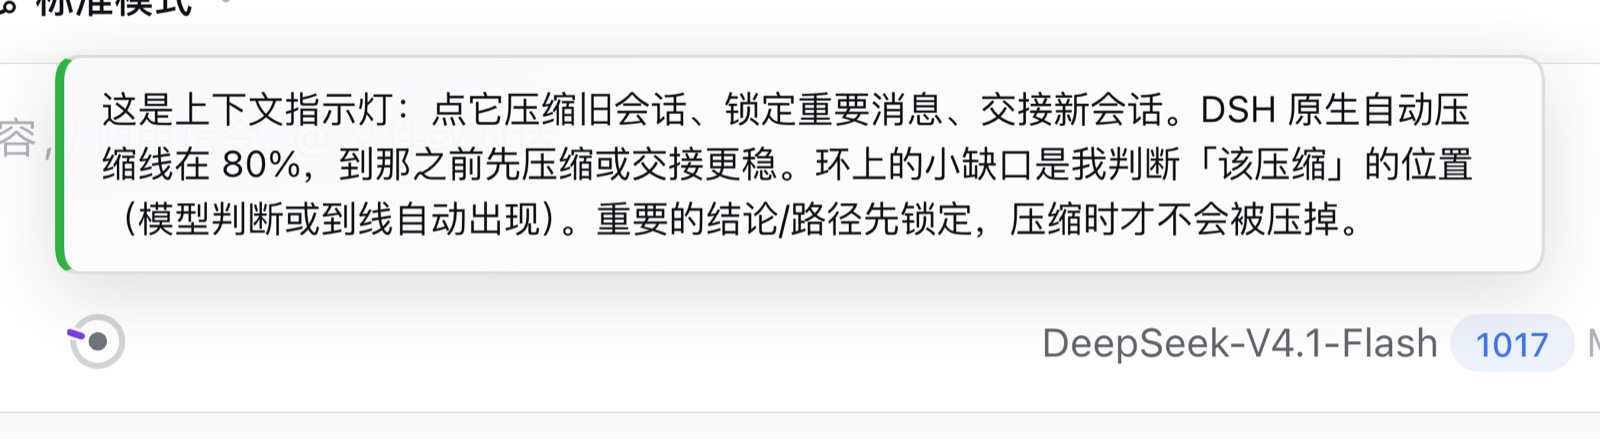
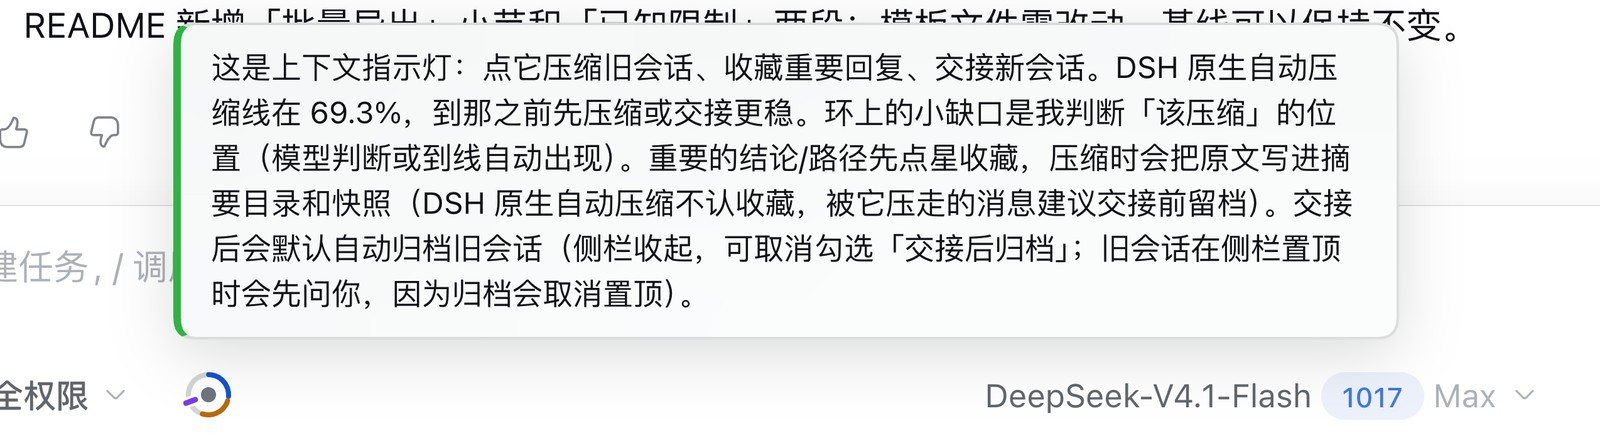
docs(readme): 按 0.5.5 重写全篇并换 8 张新截图
- 内容对齐 0.5.5：收藏/推荐收藏成为独立核心功能，pin 退役口径、/favorite 命令、推荐收藏设置项
- 缩略图全部重拍：指示环悬停卡、菜单、压缩确认卡（含收藏区）、原生自动压缩告警、设置页、图例教学卡、首次引导，新增收藏星标图
- 三条线数字对齐真实界面：1.05M 窗口、原生自动压缩线 69.3%、交接线硬上限 64%
- screenshots.json 补 favorite-star.jpg

diff --git a/README.md b/README.md
@@ -9,7 +9,7 @@
 [![npm](https://img.shields.io/npm/v/dsh-compact-relay?label=npm&color=cb3837)](https://www.npmjs.com/package/dsh-compact-relay)
 [![DSH](https://img.shields.io/badge/DSH-0.2.x-4d6bfe)](https://www.deepseek.com/harness/)
 [![license](https://img.shields.io/badge/license-MIT-yellow)](LICENSE)
-[![version](https://img.shields.io/badge/version-0.5.0-blue)](CHANGELOG.md)
+[![version](https://img.shields.io/badge/version-0.5.5-blue)](CHANGELOG.md)
 [![XERJ Corpus Hub contributor](https://hub.xerj.org/contributors/cfanzx/badge.svg)](https://hub.xerj.org/contributors/cfanzx)
 
 收录于 [XERJ Corpus Hub](https://hub.xerj.org/corpus/cfanzx--dsh-compact-relay) · 钉住 commit `435601b` · MIT · 带署名
@@ -27,33 +27,44 @@
 - **琥珀色（带缺口）**：达到建议压缩点（由缺口标识），点击可预览压缩估算数据并决定是否执行。
 - **红色**：达到交接阈值，建议生成九段式交接文档并切换至新会话。
 
+容量管理之外，插件还负责两件事：到线前用交接单换一个新会话接着聊；把值得回看的回复收藏起来，压缩时连同原文落档。
+
 插件直接挂载于现有输入框旁，默认参数已针对 DSH 0.2.x 完成适配，无需改变既有操作流程。
 
 ## 核心功能
 
 ### 1. 状态可视化监控
 
-指示环按压缩评估逻辑分段显色，只表达容量：模型或阈值判定的建议压缩点，以及 DSH 原生自动压缩线（按宿主实际 token 预算算出的触发点：deepseek-flash 约 67.8%，配置阈值默认 80%）。0.5.1 起环上不再画锁定消息的位置（位置标记归 0.6 时间线），锁定状态以悬停卡/菜单的条数显示。当上下文占用越过原生自动压缩线时，整环呈红色闪烁告警。交接提醒线晚于当前模型的实际触发线（−5pp）时，环上交接刻度旁会出现红色小警示，悬停卡与 `/handoff` 菜单也会同步标出「交接线已晚」。
+指示环按压缩评估逻辑分段显色，只表达容量：模型或阈值判定的建议压缩点，以及 DSH 原生自动压缩线（按宿主实际 token 预算算出的触发点：deepseek-flash 约 69.3%（窗口 1.05M），配置阈值默认 80%）。0.5.1 起环上不再画消息位置，位置标记归 0.6 时间线。当上下文占用越过原生自动压缩线时，整环呈红色闪烁告警。交接提醒线晚于当前模型的实际触发线（−5pp）时，环上交接刻度旁会出现红色小警示，悬停卡与 `/handoff` 菜单也会同步标出「交接线已晚」。
 
 上下文进入「可压缩区间」（最小压缩线到压缩线之间）时，插件会在系统提示里主动告诉模型当前容量与区间，模型据此判断「刚完成一个自然节点」时是否记录压缩节点（0.3.4 起；此前模型看不到容量，判断条件不可执行）。
 
-鼠标悬停可查看详细数值：已用容量、累计压缩次数、当前操作建议、压缩判断点、原生自动压缩线及已锁定消息数量。
+鼠标悬停可查看详细数值：已用容量、累计压缩次数、当前操作建议、压缩判断点及原生自动压缩线。
 
 ### 2. 预览与确认压缩
 
-执行 `/bc` 命令（或通过指示环菜单触发）可预先查看待压缩范围、消息条数及预计释放的容量空间，需经用户二次确认后方才执行。确认前可随时取消，未提交前不会修改任何历史记录；已锁定的消息在压缩时自动跳过。
+执行 `/bc` 命令（或通过指示环菜单触发）可预先查看待压缩范围、消息条数及预计释放的容量空间，需经用户二次确认后方才执行。确认前可随时取消，未提交前不会修改任何历史记录。
+
+0.5.3 起确认卡会列出「本段 N 条 · 已收藏 M 条 · 建议补 K 条」，展开本段已收藏条目与「建议先收藏」的候选（每条可一键收藏）——这是压缩前最后一次补救机会。已收藏的消息在压缩时把原文写进摘要的「收藏（本段）」目录，并在 `~/.dsh/dcr-favorites/snapshots/` 留快照。
 
 ![压缩预览与确认](assets/compact-preview.jpg)
 
-### 3. 结构化会话交接
+### 3. 收藏与推荐收藏
+
+**收藏 = 给「这条以后可能想回看原话」留个预约**，不是把正文存下来：
+
+- **两步走**：点星（或命令）只写一行标记（项目级 JSONL，按会话链根存）；**原文只在压缩时落档**——压缩后摘要里出现「收藏（本段）」目录，原文另存 `~/.dsh/dcr-favorites/snapshots/` 快照。所以「标了不压缩」= 只留一个序号，这是设计而非 bug。
+- **入口**：助手消息底部星标；`/favorite mark [seq]` 可标任意已完成回复（不带 seq 标最后一条）。**不需要会话开着**：归档/关闭的会话也能按 seq 标记（0.5.3 起标记层不依赖活 agent）。
+- **星标常亮（0.5.5）**：已收藏的星标常亮——动作行收起时只显示这一颗星，鼠标移上去才恢复整行按钮；选择器不依赖宿主哈希类名，触屏与不支持 CSS `:has()` 的旧浏览器回退原行为。
+- **推荐收藏（半自动）**：每条助手回复落地后，小模型异步打分（0-100）；够档位的星标会**金色微亮**并带「推荐」提示。三档：宽松 60 / 标准 75 / 严格 85（默认标准），另有必亮词与屏蔽词。**只点亮、绝不自动收藏**——确认仍要你点星或 `/favorite mark`。设置页可调档位/词表，并支持「试算」（粘一段原文按当前设置跑一次真实打分，只读）。
+- **压缩后再补标**：若原文还在会话日志里，标记时当场写快照；读不到会明确报错，不假装成功。（从归档会话档案里读原文归 0.6。）
+- **压缩后的整理（0.5.4）**：建议候选只保留用户/助手消息，工具输出不再占名额；无正文条目的标题显示为「第 seq 条」；压缩完成后自动清空本会话的推荐建议，被压走的消息不再残留。
+
+![收藏星标](assets/favorite-star.jpg)
+
+### 4. 结构化会话交接
 
 执行 `/handoff` 命令可生成包含九个标准部分的交接文档（总体目标、约束条件、已完成项、当前进度、涉及文件、关键决策、已知问题、未完成项、下一步计划），并在当前工作区自动创建新会话、注入该文档并完成切换，原会话完整保留。
-
-### 4. 关键消息锁定
-
-执行 `/pin` 命令可标记压缩时必须保留的消息。锁定状态与条数显示在悬停卡（「已锁定 N 条」）和菜单（锁定行 /「已锁 N 条 · 失效 M」）里；0.5.1 起环上不再画 pin 位置块（位置标记归 0.6 时间线）。
-
-![指示环菜单](assets/menu.jpg)
 
 ### 5. 接力条：交接链与双向跳转
 
@@ -61,29 +72,11 @@
 
 - **完整交接链**：点「完整交接链」才**按需**读取（不展开不发请求），一次列出整条链「历史 N：<原名>」（默认服务端只读持久化日志，祖先会话没打开也能读；老宿主回落逐级查询）。每行都能打开那一跳的交接单、点整行跳到那个会话（已归档的会先自动恢复）。最多回看 8 层，链路异常成环会自动停；某一层实在读不到时保留已读行 +「无法读取更早的链路 / 上一层会话未打开」，老宿主还会给「打开并继续」（打开那一层后自动续读），不影响菜单其他入口。
 - **父 → 子**：把接力棒交出去之后，父会话侧的接力条变成「已交接给新会话」，「去新会话」一键切回这次交接出来的新会话（新会话若被归档过，也会先恢复再切）。
-- **pin 失效标注**：被压缩（尤其 DSH 原生自动压缩）带走的锁定消息不再凭空消失——悬停卡与菜单标「已失效 N 条（随原生压缩移除）」；原生压缩**即将**覆盖锁定消息时会提前提示「先交接（/handoff）或解锁」。
 - **置顶确认**：交接后归档旧会话会取消它的侧栏置顶（宿主行为）。旧会话置顶时，交接预览先问一次：点「交接并归档（取消置顶）」才归档，点「只交接，保留置顶」则旧会话和置顶都留着。
 - **归档开关**：交接预览里可以勾掉「交接后自动归档旧会话」（默认开）；首次引导里也写了这个选项。
 - **强制归档（0.5.2）**：旧会话还有任务在跑时，自动归档会「保留可见、不停止任务」。确实要清理时，接力条菜单里有「强制归档旧会话（会停止后台任务）」：点开还会再确认一次，确认面板明确写「会停止旧会话上正在跑的任务（turn / 子代理 / 后台任务 / 定时任务），中断后无法恢复」；旧会话在侧栏置顶时会补「归档会同时取消置顶（宿主行为）」。**默认不会自动做这一步**，只有你在确认面板里点「强制归档（停止任务）」才会执行。
 
 > 老链（0.5.0 之前生成的会话）没有交接单路径记录，界面显示「暂无交接单」而不是猜一个——它会先向父会话只读回查一次。
-
-### 6. 收藏与推荐收藏（0.5.3）
-
-**收藏 = 给「这条以后可能想回看原话」留个预约**，不是把正文存下来：
-
-- **两步走**：点星（或命令）只写一行标记（项目级 JSONL，按会话链根存）；**原文只在压缩时落档**——
-  压缩后摘要里出现「收藏（本段）」目录，原文另存 `~/.dsh/dcr-favorites/snapshots/` 快照。
-  所以「标了不压缩」= 只留一个序号，这是设计而非 bug。
-- **入口**：助手消息底部星标；`/favorite mark [seq]` 可标任意已完成回复（不带 seq 标最后一条）。
-  **不需要会话开着**：归档/关闭的会话也能按 seq 标记（0.5.3 起标记层不依赖活 agent）。
-- **推荐收藏（半自动）**：每条助手回复落地后，小模型异步打分（0-100）；够档位的星标会**金色微亮**
-  提示「值得收藏」。三档：宽松 60 / 标准 75 / 严格 85（默认标准），另有必亮词与屏蔽词。
-  **只点亮、绝不自动收藏**——确认仍要你点星或 `/favorite mark`。设置页可调档位/词表，并支持「试算」。
-- **压缩预览卡补收藏**：点「压缩旧会话」后的确认卡会显示「本段 N 条 · 已收藏 M 条 · 建议补 K 条」，
-  列出本段已收藏条目（含你的发言）和"建议先收藏"的关键候选，每条可一键收藏——这是压缩前最后的补救机会。
-- **压缩后再补标**：若原文还在会话日志里，标记时当场写快照；读不到会明确报错，不假装成功。
-  （从归档会话档案里读原文归 0.6。）
 
 ## 指示环图例说明
 
@@ -94,22 +87,22 @@
 | 琥珀色弧 | 已越过压缩判断点，适合执行压缩 |
 | 红色弧 | 已越过交接阈值，建议切换新会话 |
 | 环形缺口 | 建议压缩点（系统在可压缩区间主动提示模型判断；模型记录或到达压缩线时自动出现） |
-| 紫色刻度 | DSH 原生自动压缩线：按 `min(窗口 × thresholdRatio, 窗口 − 输出预留 − headroomTokens)` 算出的**实际触发点**（deepseek-flash 约 67.8%；`thresholdRatio` 配置默认 80%，只是理论上限） |
+| 紫色刻度 | DSH 原生自动压缩线：按 `min(窗口 × thresholdRatio, 窗口 − 输出预留 − headroomTokens)` 算出的**实际触发点**（deepseek-flash 约 69.3%；`thresholdRatio` 配置默认 80%，只是理论上限） |
 | 整环红色闪烁 | 已越过原生自动压缩线，即将触发 DSH 原生自动压缩 |
 
-> 0.5.1 起环只表达容量，不再标注 pin 位置；「已锁定 N 条 / 已失效 M 条」在悬停卡与菜单查看（位置标记归 0.6 时间线）。
+> 0.5.1 起环只表达容量，不再标注消息位置（位置标记归 0.6 时间线）；已收藏的消息以动作行里的金色星标标示。
 
 ![越过原生自动压缩线](assets/native-alert.jpg)
 
-## 三条线（deepseek-flash 1M 默认）
+## 三条线（deepseek-flash 1.05M 默认）
 
 | 线 | 默认值 | 含义 | 怎么调 |
 | --- | --- | --- | --- |
 | 压缩提醒线 | 40% | 到线变琥珀色，菜单建议「压缩旧会话」 | 设置 → 压缩接力 |
-| 交接提醒线 | 60% | 到线内圆亮红点，菜单建议「交接新会话」 | 设置 → 压缩接力；**硬上限 = 实际触发线 −5pp**（deepseek-flash 下 62%） |
-| 原生自动压缩线 | 67.8% | DSH 按 token 预算真正触发自动压缩的点（配置阈值 80% 只是理论上限，deepseek-flash 的输出预留 + DSH 余量把它压到 67.8%） | profile 里 `compaction-basic` 的 `thresholdRatio`（默认 80%） |
+| 交接提醒线 | 60% | 到线内圆亮红点，菜单建议「交接新会话」 | 设置 → 压缩接力；**硬上限 = 实际触发线 −5pp**（deepseek-flash 下 64%） |
+| 原生自动压缩线 | 69.3% | DSH 按 token 预算真正触发自动压缩的点（配置阈值 80% 只是理论上限，deepseek-flash 的输出预留 + DSH 余量把它压到 69.3%） | profile 里 `compaction-basic` 的 `thresholdRatio`（默认 80%） |
 
-**交接线为什么要留 5 个百分点**：交接提醒必须早于 DSH 自己压历史，才有时间生成交接单、开新会话。所以 0.4.2 起交接线有硬上限 **实际触发线 −5pp**（取整到整数百分位；deepseek-flash 1M 窗口下是 62%）：超过时**拒绝保存并提示目标值**，不静默夹紧；已存的高值不会被偷偷改写，但设置页会常驻告警，并可点「按实际线重算」一键改成上限。实际触发线算不出（无会话 / 宿主没给）时不告警、不阻断，保存校验退回配置阈值防呆（与 0.4.1 一致）。
+**交接线为什么要留 5 个百分点**：交接提醒必须早于 DSH 自己压历史，才有时间生成交接单、开新会话。所以 0.4.2 起交接线有硬上限 **实际触发线 −5pp**（取整到整数百分位；deepseek-flash 1.05M 窗口下是 64%）：超过时**拒绝保存并提示目标值**，不静默夹紧；已存的高值不会被偷偷改写，但设置页会常驻告警，并可点「按实际线重算」一键改成上限。实际触发线算不出（无会话 / 宿主没给）时不告警、不阻断，保存校验退回配置阈值防呆（与 0.4.1 一致）。
 
 ## 安装
 
@@ -132,10 +125,10 @@ dsh plugin --profile desktop add github:cfanzx/dsh-compact-relay
 配置入口位于 **设置 → 压缩接力**（DSH 0.2.1+ 位于账号菜单内）：
 
 - **压缩提示**：配置最小压缩线、压缩提醒线与交接提醒线，控制告警触发时机。
+- **推荐收藏**：推荐开关、三档阈值（宽松 60 / 标准 75 / 严格 85）、必亮词、屏蔽词，以及「试算」（粘一段原文，按当前设置跑一次真实打分，只读）。
 - **压缩行为**：配置摘要保留份数上限、近期原文保留 Token 数及交接文档存储目录。
 - **DSH 原生自动压缩**：读取宿主阈值并换算实际触发线，支持开启或关闭 DSH 原生自动压缩（修改 profile 配置前自动生成备份，重启后生效）。
-- **推荐收藏**：推荐开关、三档阈值（宽松 60 / 标准 75 / 严格 85）、必亮词、屏蔽词，以及「试算」（粘一段原文，按当前设置跑一次真实打分，只读）。
-- **颜色与外观**：配置五项基准色（含收藏星标点亮色），系统将根据浅色/深色主题自动派生适配色阶。
+- **颜色与外观**：配置各项基准色（含收藏星标点亮色），系统将根据浅色/深色主题自动派生适配色阶。
 - **帮助**：提供指示环图例、使用说明、问题反馈入口、「再看一次初次引导」按钮，以及「诊断信息」（只在本机生成、可预览/复制，见下节）。
 - **关于与危险操作**：查看版本号、配置文件路径，支持恢复出厂默认设置。
 
@@ -175,9 +168,10 @@ dsh plugin --profile desktop add github:cfanzx/dsh-compact-relay
 | `/handoff` | 生成九段式交接文档并创建、切换至新会话 |
 | `/favorite` / `/favorite list` | 当前会话收藏目录（编号 + 角色 + 标题） |
 | `/favorite mark [seq]` | 收藏一条（不带 seq 标最后一条已完成回复；不需要会话开着） |
+| `/favorite last` | 收藏我刚发出的那条消息 |
 | `/favorite <序号> [read]` | 报体积，或输出收藏原文 |
 | `/favorite rm <序号>` / `/favorite suggest` | 取消收藏 / 列出推荐收藏建议 |
-| `/pin` / `/unpin` | 锁定或解锁指定消息，锁定后跳过压缩（0.5.3 起 pin 退役为收藏） |
+| `/pin` / `/unpin` | 0.5.3 起退役为收藏：旧命令保留兼容，锁定不再影响压缩选段与范围 |
 | `/bctest` | 小范围空跑测试（仅供开发调试） |
 
 ## 功能边界与限制
@@ -185,13 +179,15 @@ dsh plugin --profile desktop add github:cfanzx/dsh-compact-relay
 - **不替代 DSH 原生压缩机制**：原生压缩仍由 DSH 宿主控制；本插件仅负责读取阈值、显示告警并在设置页提供开关选项。
 - **不篡改提示词与模型回复**：插件仅在用户明确确认压缩或执行交接时替换对应历史记录。
 - **摘要质量取决于底层模型**：摘要生成采用九段式结构化模板并包含格式校验与单次重试机制，但最终产出质量仍受限于所选模型的能力。
-- **纯本地存储**：插件状态保存于 `~/.dsh/compact-relay.json`，交接文档保存于 `~/.dsh/handoffs/`，无任何外部数据同步。
-- **依附桌面输入框**：环形指示器、`/bc`、`/handoff` 依附 DSH 的输入框与斜杠命令；headless 会话或 QQ / 微信等桥接链路不会加载它们，在这些链路里发 `/bc` 会被当成普通消息——这是桥接链路的能力边界，不是插件故障。
+- **纯本地存储**：插件状态保存于 `~/.dsh/compact-relay.json`，交接文档保存于 `~/.dsh/handoffs/`，收藏标记与快照保存于 `~/.dsh/dcr-favorites/`，无任何外部数据同步。
+- **收藏只在本插件主动压缩时落档**：DSH 原生自动压缩不认收藏，被它压走的消息不会再补写原文——重要结论建议在原生压缩线之前交接或手动压缩。标记本身只留一个序号，不复制正文、不占上下文预算。
+- **依附桌面输入框**：环形指示器、`/bc`、`/handoff`、收藏星标依附 DSH 的输入框与斜杠命令；headless 会话或 QQ / 微信等桥接链路不会加载它们，在这些链路里发 `/bc` 会被当成普通消息——这是桥接链路的能力边界，不是插件故障。
 - **界面语言限制**：当前版本用户界面仅提供简体中文，英文界面已列入后续计划（排期未定）。
 - **模型判断提示的前置**：可压缩区间的动态提示依赖 DSH 0.2.x 的根服务 `systemPrompt`（与 memory 等插件同款）；它是启发式提示，不保证模型每次都会记录压缩节点，但条件从「不可判断」变成「可判断」。
+- **旧锁定保留兼容**：0.5.3 前的 `/pin` 仍可用，但只影响交接单里的「保留契约」记录，不再参与压缩选段；界面上被外部压缩带走的旧锁定仍会标「已失效」。
 - **接力链只认单亲血缘**：链记录只有 `parentId`/`childId`，「分叉 → 各走一条链 → 再合并」**没有定义**（fork 出来的副本与 subagent 会话不参与接力链，按各自独立处理）。「去新会话」只指向**最近一次**交接出来的会话（同一会话交接过两次时，更早的那个下一代请从侧栏找）。0.5.0 之前的老链由会话头 + 标题兜底合成，**没有交接单路径**，界面显示「暂无交接单」（不伪造、不猜）。
 - **归档与置顶互斥**：宿主归档会话时会同时取消置顶。插件在**自动**归档前置顶会话会先问（见上），但你在侧栏手动归档置顶会话时，那一步的确认归宿主。
-- **交接单的程序段随现场变化**：有锁定消息时，「当前进度」程序段会列出锁定条数与锚点摘要，所以不同 pin 状态下重新生成交接单，**程序段内容会变**（这是有意的：交接单要反映交接那一刻的事实）。
+- **交接单的程序段随现场变化**：有旧锁定消息时，「当前进度」程序段会列出锁定条数与锚点摘要，所以不同锁定状态下重新生成交接单，**程序段内容会变**（这是有意的：交接单要反映交接那一刻的事实）。
 - **完整交接链是按需读取**：展开才查（默认一次 `/api/compact-relay-chain` 由服务端只读持久化 header/日志，最多 8 层；祖先未加载也能读；不展开零额外请求）。老宿主没有该端点时回落逐级 state 查询；某层未加载会显示「上一层会话未打开」+「打开并继续」。归档会话的记录能读，但**跳转前会先恢复**（否则会被宿主拒绝）。
 
 ## 版本状态与开源许可
